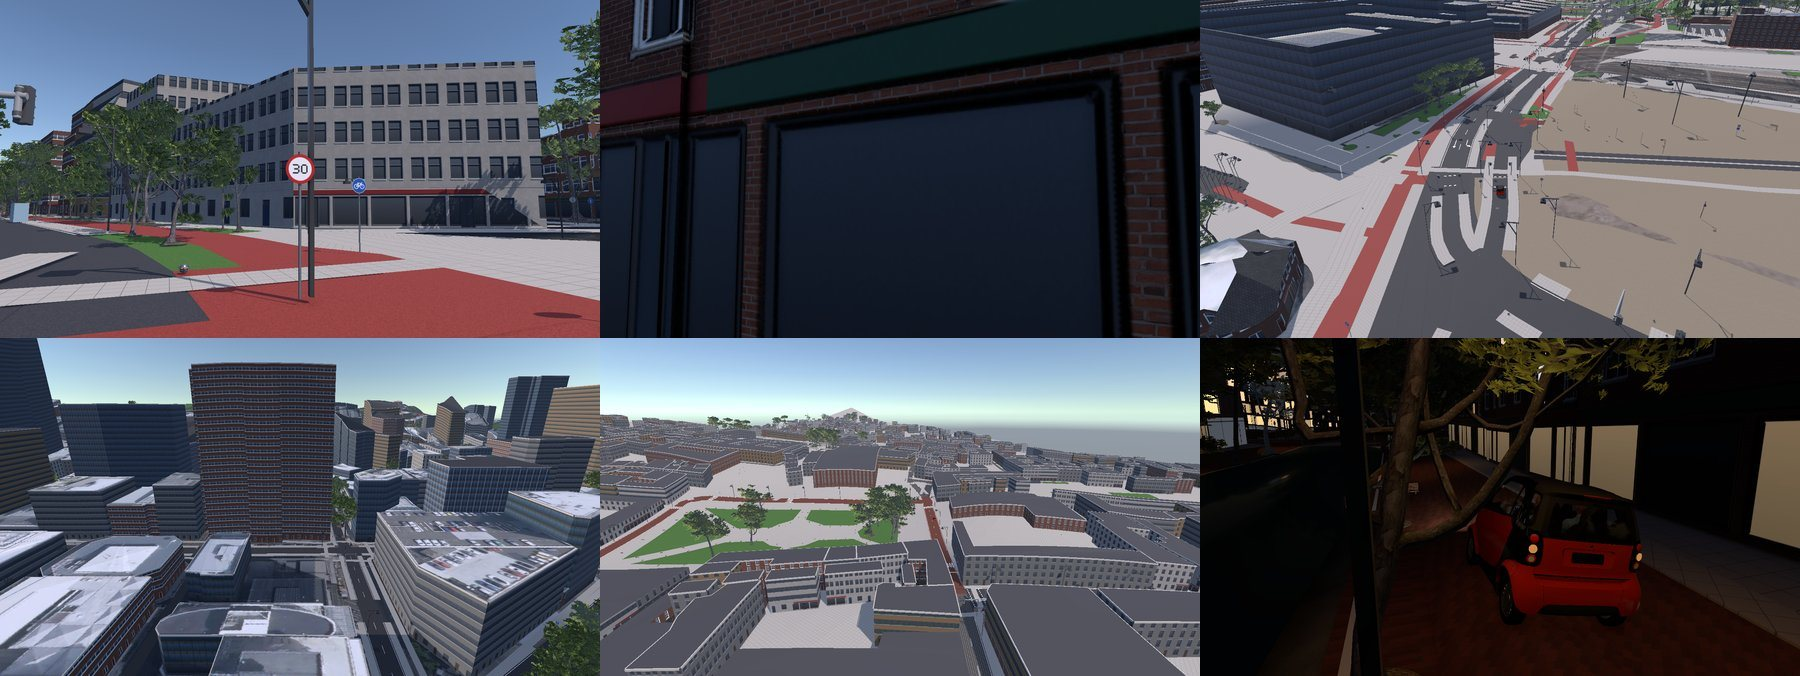
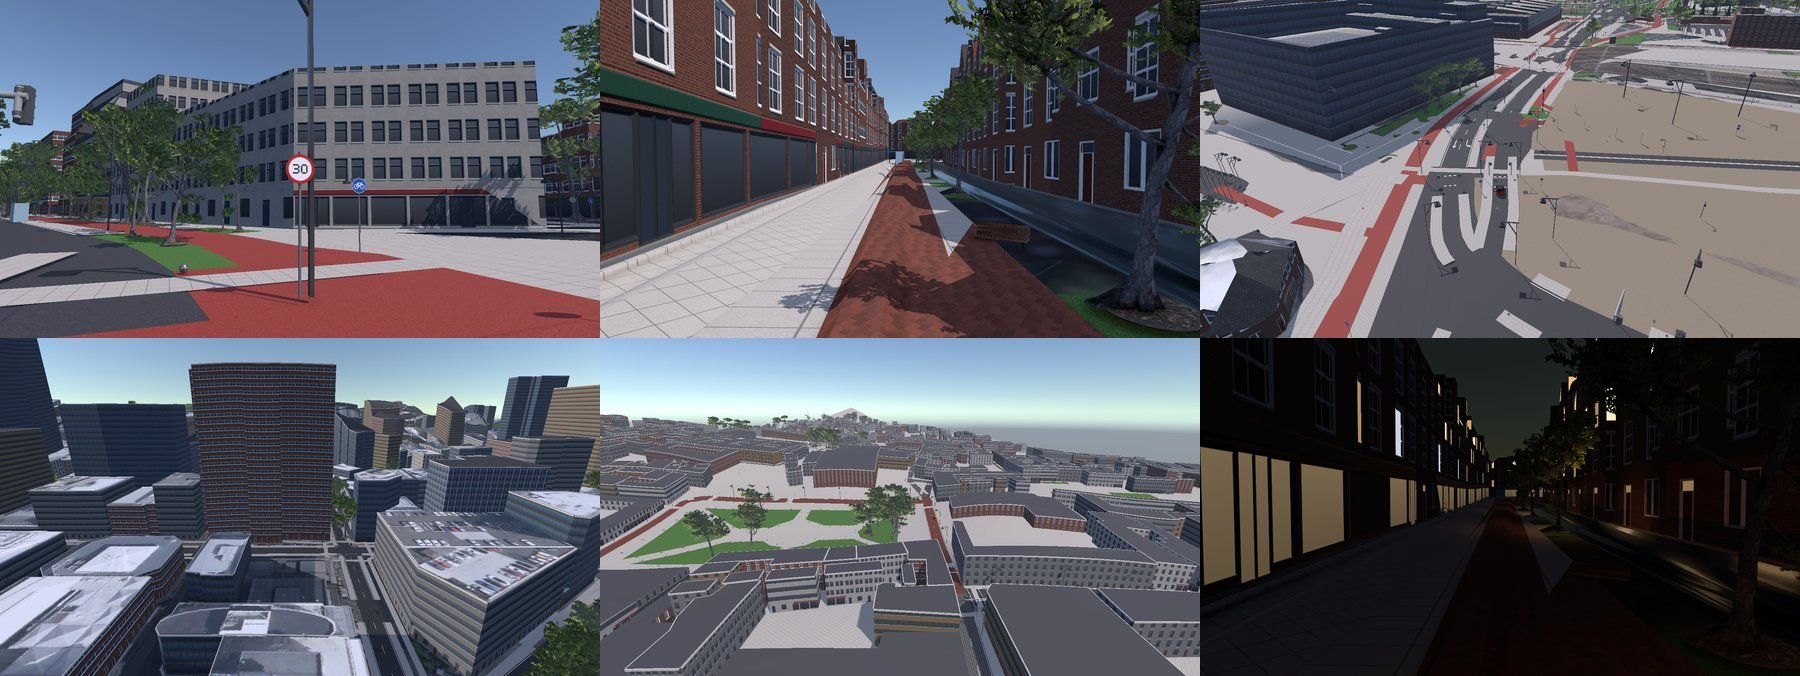
README: real-world data picture shows Delft's shop fronts along the street, by day and at night (#210)

Changed region(s): [[0.3111, 0.0, 0.6844, 0.497], [0.6533, 0.497, 1.0, 1.0]]

diff --git a/README.md b/README.md
@@ -602,7 +602,7 @@ Where open government data exists, the maps use it instead of what would otherwi
 
 The NDW signs added 18 Dutch sign kinds to `TrafficSign` (cycle and foot paths, parking, no parking and no stopping, closed to vehicles, end of speed limit, mandatory directions, dead end, residential zone). Buildings also got **ground floors** (shop fronts where OSM has a shop, café, restaurant, bar, bank or pharmacy at that stretch of wall, lit softly at night; lobbies under glass façades; front doors elsewhere) and **cornices** along flat roofs. The data is fetched by `python3 Tools/city_data.py <map>` (trees, lamps, signs, BGT surfaces) and `python Tools/terrain_height.py <map>` (needs numpy, Pillow, SciPy; for Wellington and Auckland also tifffile and imagecodecs) into `Assets/StreamingAssets/Maps`; the build log lists what a map used. `-noRealData` builds a map from OpenStreetMap alone and `-flatTerrain` keeps it flat (comparisons).
 
-![Real signs in Eindhoven (speed limit 30 and a cycle path, NDW), ground floors in Delft, Eindhoven from above with the BGT surfaces and the register's trees and lamps (top); the terrain of Wellington and Cusco, Delft's shops and street lights at night (bottom)](ReadmeFiles/real_world_data.jpg)
+![Real signs in Eindhoven (speed limit 30 and a cycle path, NDW), shop fronts on the ground floors along a street in Delft, Eindhoven from above with the BGT surfaces and the register's trees and lamps (top); the terrain of Wellington and Cusco, the same street in Delft at night with its shops lit (bottom)](ReadmeFiles/real_world_data.jpg)
 
 Conifers and palms are made from code (`OsmMapGenerator.Trees.cs`, no third-party models): a tapering trunk with tiers of drooping needle branches, and a slender, slightly bent, ringed trunk with a crown of pinnate fronds about half the tree's height long; from the registers' species and OpenStreetMap's `leaf_type`, `genus`, `species` and `taxon` (Eindhoven 130 conifers, Sydney 70 palms). They sway in the wind like the others.
 
